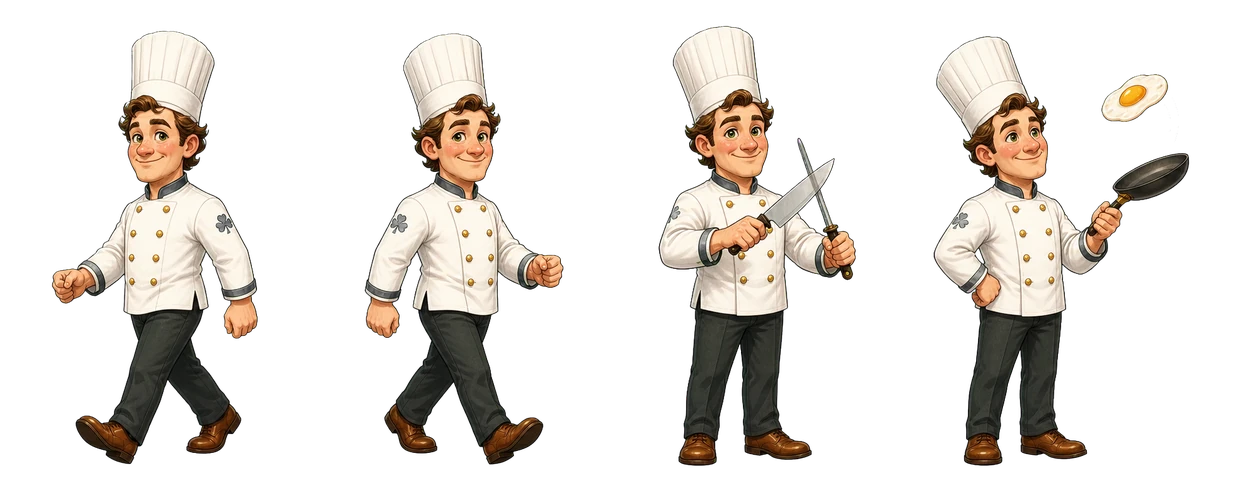
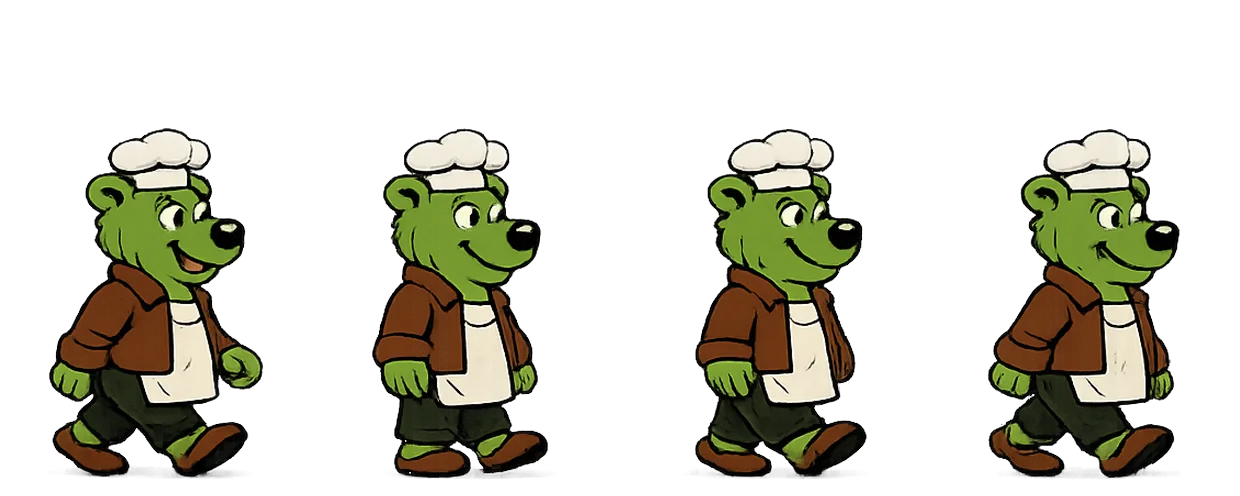
feat: replace hero chef with GreenBear mascot sprites
- 3 new sprite strips: walk (4f), sharpen (4f), egg (4f)
- Tricks now animate frame-by-frame (220ms per frame)
- Idle state shows neutral walk frame
- Re-enable hero chef after temporary disable

diff --git a/static/js/hero_chef.js b/static/js/hero_chef.js
@@ -90,6 +90,7 @@
   const close  = chef.querySelector(".hero-chef__close");
   let walkTimer;
   let walkFrameTimer;
+  let trickFrameTimer;
   let poseTimer;
   let speechTimer;
   let previousX = 72;
@@ -192,10 +193,22 @@
     const pose = Math.random() < 0.5 ? "sharpen" : "egg";
     chef.dataset.walking = "false";
     chef.dataset.pose = pose;
-    if (Math.random() < 0.48) {
-      saySomething();
-    }
-    poseTimer = window.setTimeout(startWalk, randomBetween(3800, 6200));
+
+    // Animate trick frames (4 frames, slower than walk)
+    window.clearInterval(trickFrameTimer);
+    let trickIdx = 0;
+    chef.style.setProperty("--trick-frame", WALK_FRAMES[0]);
+    trickFrameTimer = window.setInterval(() => {
+      trickIdx = (trickIdx + 1) % WALK_FRAMES.length;
+      chef.style.setProperty("--trick-frame", WALK_FRAMES[trickIdx]);
+    }, 220);
+
+    if (Math.random() < 0.48) saySomething();
+    poseTimer = window.setTimeout(() => {
+      window.clearInterval(trickFrameTimer);
+      chef.style.removeProperty("--trick-frame");
+      startWalk();
+    }, randomBetween(3800, 6200));
   }
 
   function startWalk() {
@@ -234,6 +247,7 @@
   function dismiss() {
     window.clearTimeout(walkTimer);
     window.clearInterval(walkFrameTimer);
+    window.clearInterval(trickFrameTimer);
     window.clearTimeout(poseTimer);
     window.clearTimeout(speechTimer);
     sessionStorage.setItem("heroChefDismissed", "1");

diff --git a/static/css/hero_chef.css b/static/css/hero_chef.css
@@ -18,8 +18,8 @@
 }
 
 .hero-chef__sprite {
-  background-image: url("../images/mascot/hero-chef.webp");
-  background-position: 0 0;
+  background-image: url("../images/mascot/hero-chef-walk.webp");
+  background-position: 33.333% 0;
   background-repeat: no-repeat;
   background-size: 400% 100%;
   display: block;
@@ -30,17 +30,18 @@
   width: 100%;
 }
 
+.hero-chef[data-walking="true"] .hero-chef__sprite {
+  background-position: var(--walk-frame, 0 0);
+}
+
 .hero-chef[data-pose="sharpen"] .hero-chef__sprite {
-  background-position: 66.666% 0;
+  background-image: url("../images/mascot/hero-chef-sharpen.webp");
+  background-position: var(--trick-frame, 0 0);
 }
 
 .hero-chef[data-pose="egg"] .hero-chef__sprite {
-  background-position: 100% 0;
-}
-
-.hero-chef[data-walking="true"] .hero-chef__sprite {
-  background-image: url("../images/mascot/hero-chef-walk.webp");
-  background-position: var(--walk-frame, 0 0);
+  background-image: url("../images/mascot/hero-chef-egg.webp");
+  background-position: var(--trick-frame, 0 0);
 }
 
 .hero-chef__speech {

diff --git a/templates/base.html b/templates/base.html
@@ -447,9 +447,8 @@
 
 <script defer src="{% static 'js/main.js' %}"></script>
 <script defer src="{% static 'js/presence.js' %}"></script>
-{# hero chef temporarily disabled — sprites being updated #}
-{# {{ hero_chef_promotions|json_script:"hero-chef-promotions" }} #}
-{# <script defer src="{% static 'js/hero_chef.js' %}"></script> #}
+{{ hero_chef_promotions|json_script:"hero-chef-promotions" }}
+<script defer src="{% static 'js/hero_chef.js' %}"></script>
 {% block extra_js %}{% endblock %}
 
 <div class="battle-blast" id="battle-blast" role="dialog" aria-modal="true" aria-label="Battle result" hidden>